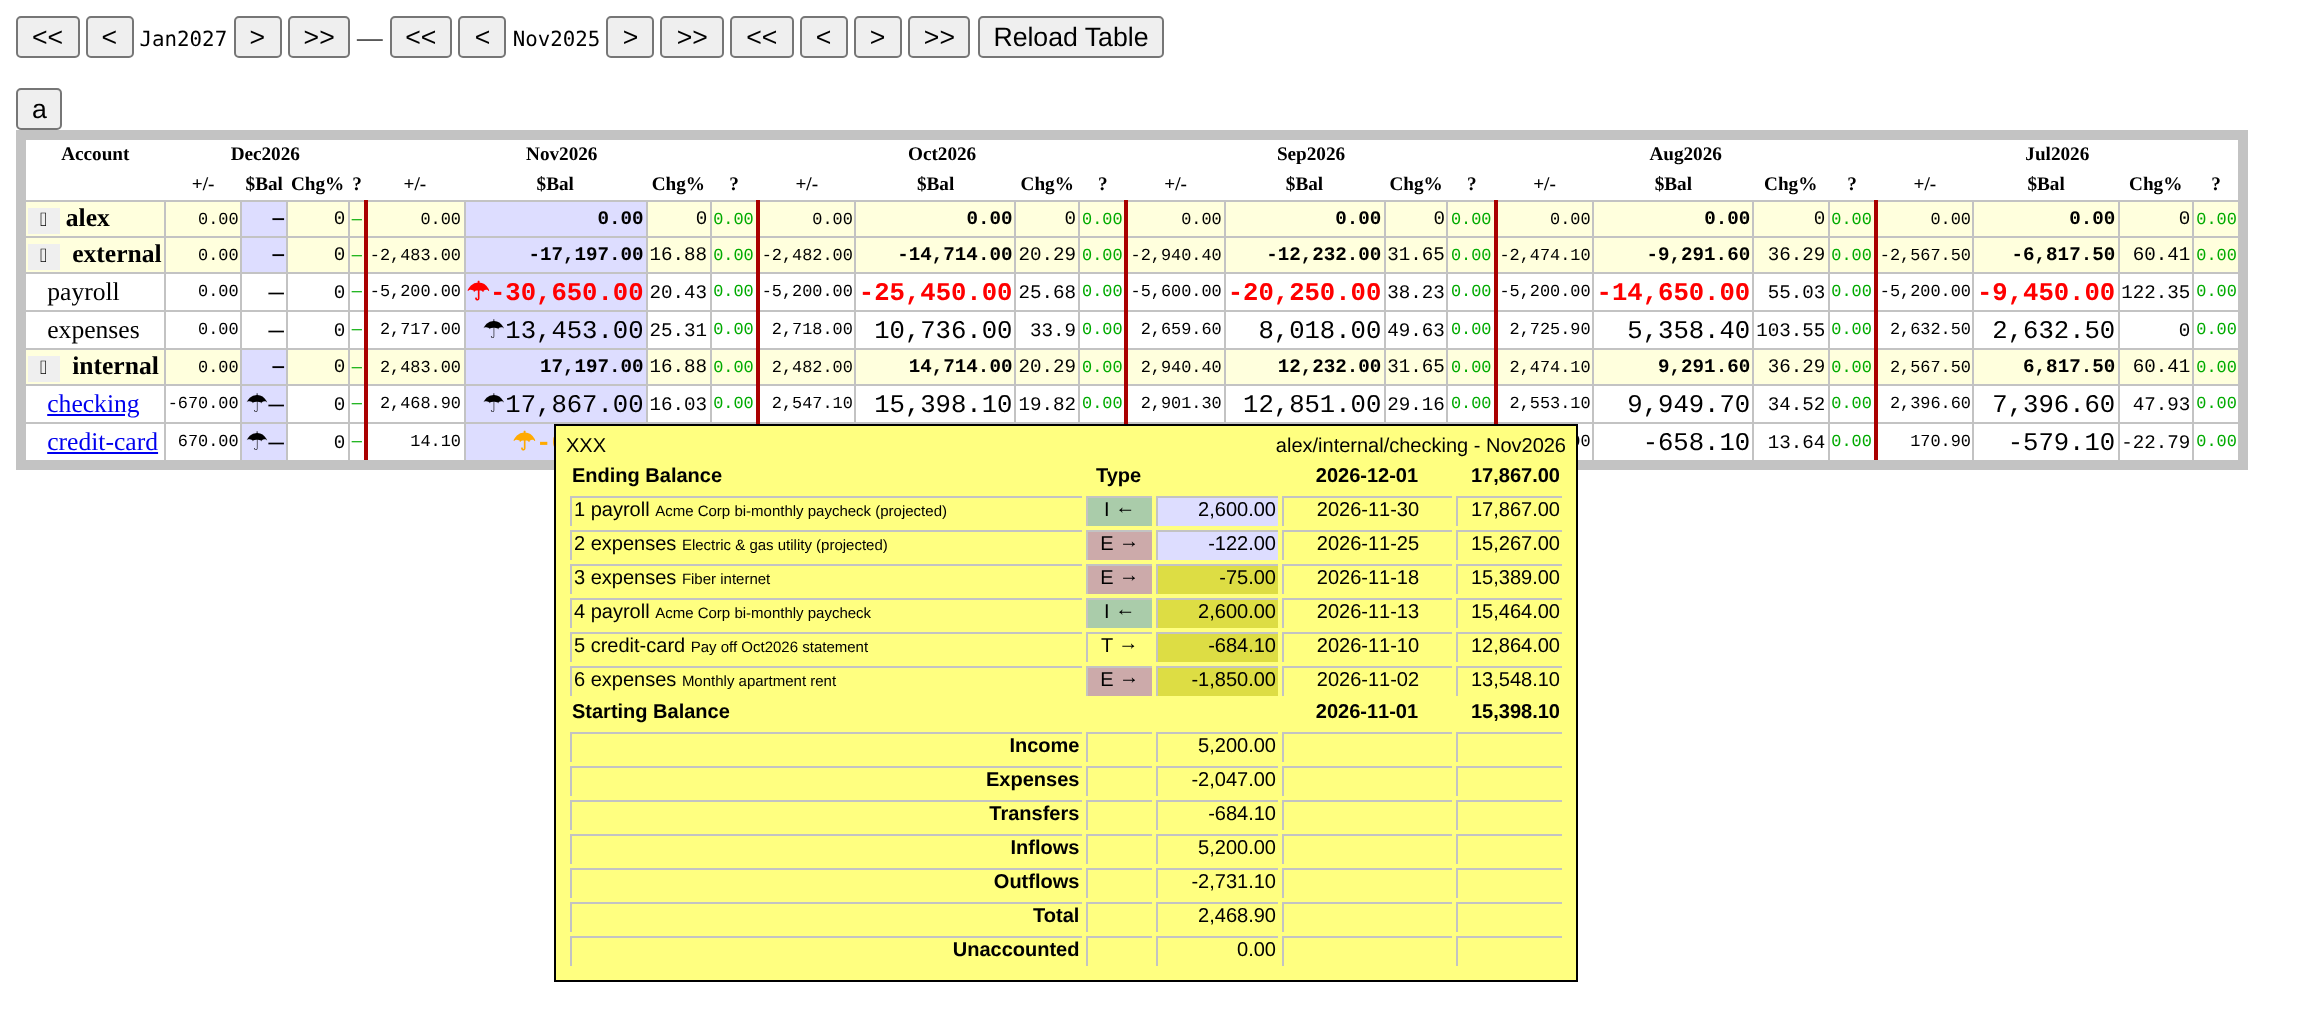
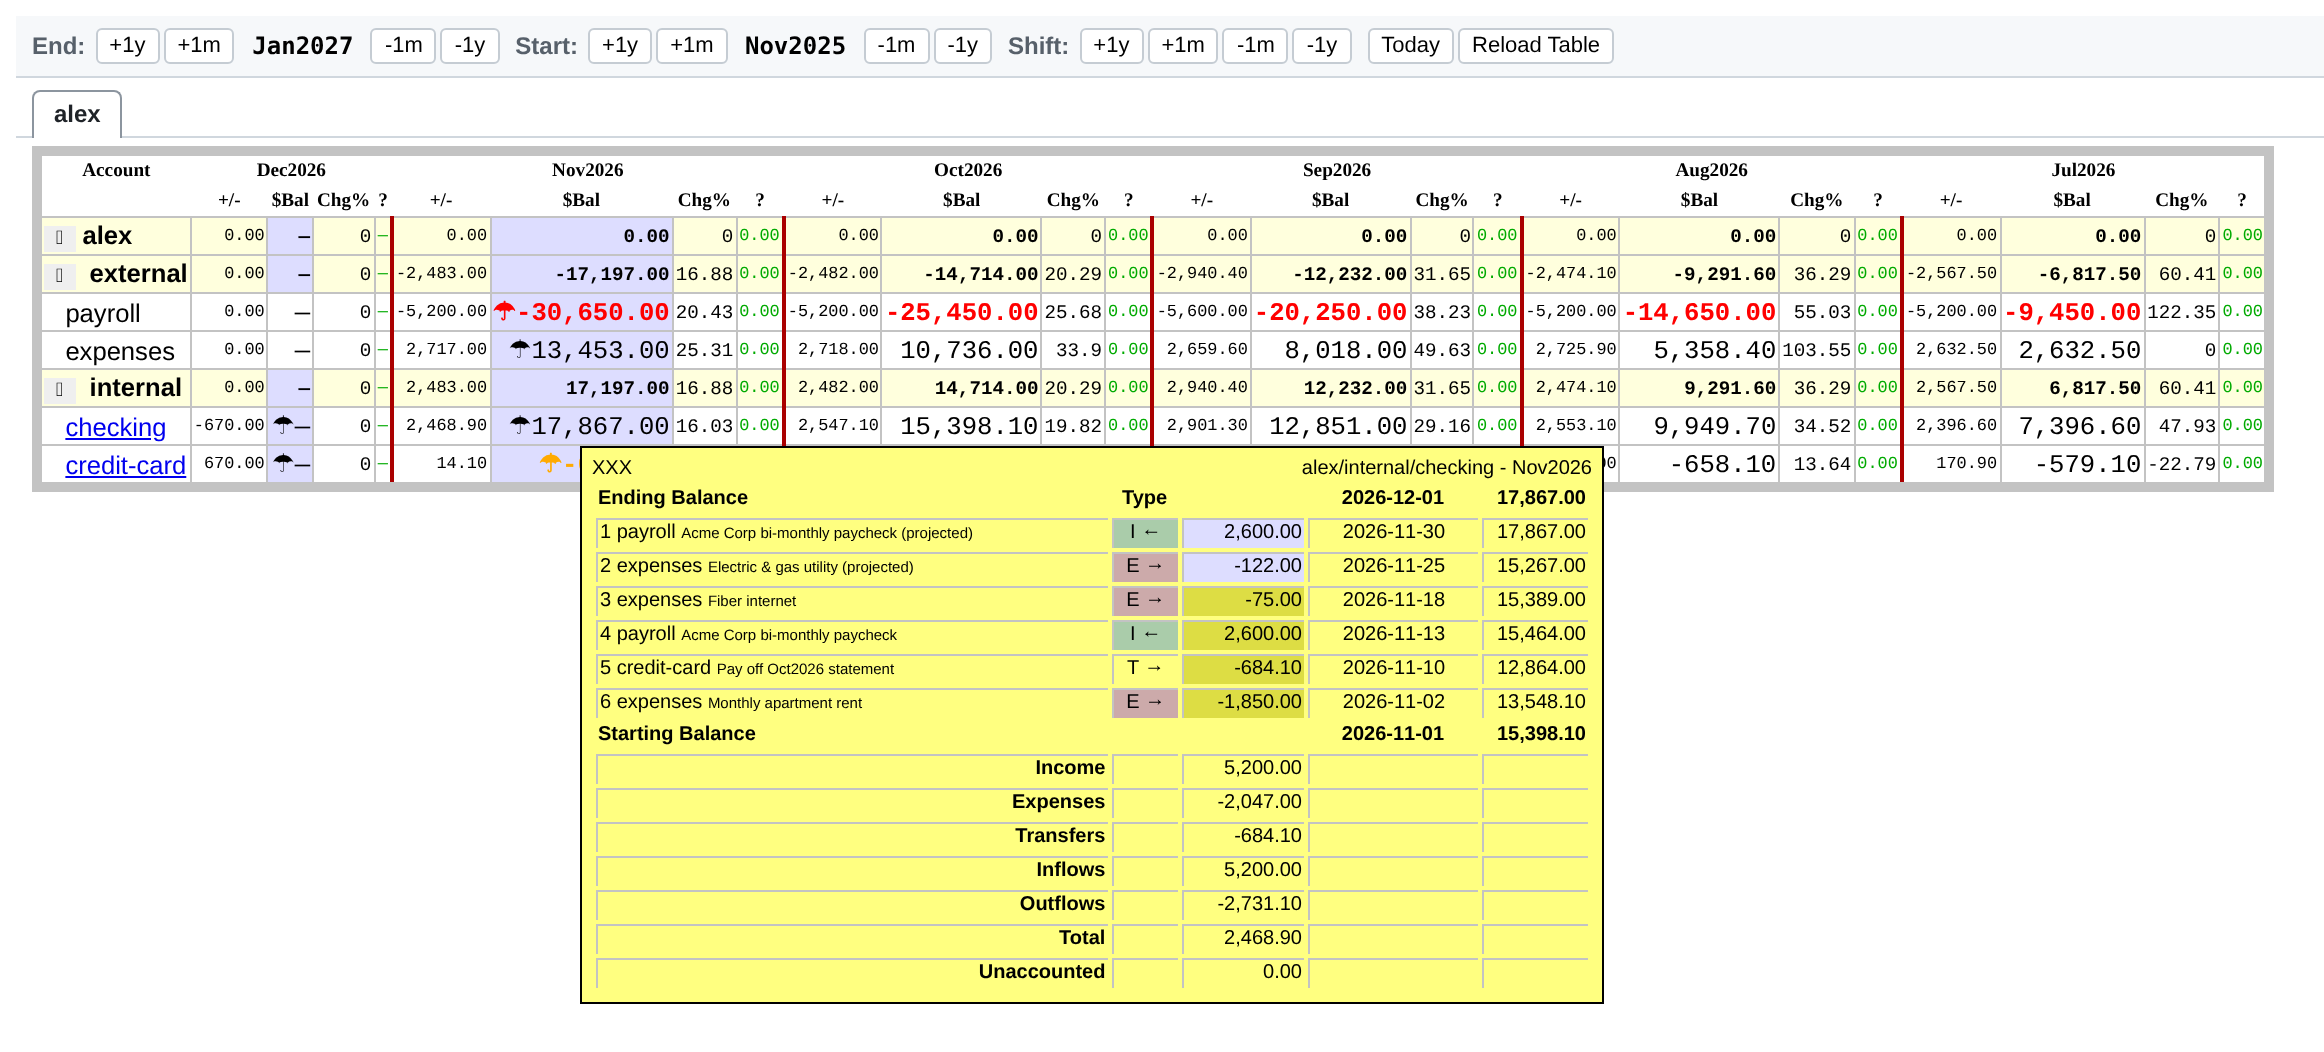
Cleanup 4.1 Clearer Date Toolbar & Owner Tabs
Changes

  • **client/src/components/tally-app.ts**:
      • Replaced the fixed unlabeled << < > >> toolbar with a sticky flex <header class="toolbar"> that does not overlap table
      rows, organized into labeled End, Start, and Shift control groups (+1y, +1m, -1m, -1y) with descriptive title tooltips.
      • Added a Today button (resetRange()) to jump back to the default window around the current month.
      • Replaced single-letter owner buttons (${owner[0]}) with full owner names inside <nav class="owner-tabs" role="tablist">
      with active tab highlighting (active class + aria-selected), and only render the error banner when errorMessage is non-
      empty.
  • **client/src/components/tally-app.test.ts**:
      • Updated toolbar and owner tab tests to verify labeled buttons, tooltips, the Today reset button, full owner names, and
      active tab / aria-selected state.
  * **Regenerated and visually verified both screenshots in sample-data/ against the updated UI**:
      • sample-data/screenshot.png — shows the new sticky header toolbar (End, Start, Shift controls with +1y/+1m/-1m/-1y, Today,
      Reload Table), the full-name active alex owner tab, and the 5-month ledger table.
      • sample-data/screenshot-statement.png — shows the updated UI with the alex/internal/checking - Nov2026 monthly statement
      popup open.

  Verification

  • pnpm typecheck, pnpm lint, pnpm build, and pnpm test all passed (11/11 test files, 86/86 tests in 2.7s, 98.37% overall
[…]

Changed region(s): [[0.0, 0.0, 0.9887, 0.9631]]

diff --git a/client/src/components/tally-app.ts b/client/src/components/tally-app.ts
@@ -37,8 +37,94 @@ type ActivePopupRequest =
 @customElement('tally-app')
 export class TallyApp extends LitElement {
   static override styles = css`
+    :host {
+      display: block;
+      font-family: Arial, Helvetica, sans-serif;
+    }
+    .toolbar {
+      position: sticky;
+      top: 0;
+      z-index: 20;
+      display: flex;
+      flex-wrap: wrap;
+      align-items: center;
+      gap: 8px;
+      padding: 6px 8px;
+      background-color: #f6f8fa;
+      border-bottom: 1px solid #d0d7de;
+      font-size: 12px;
+    }
+    .control-group {
+      display: inline-flex;
+      align-items: center;
+      gap: 2px;
+    }
+    .group-label {
+      color: #57606a;
+      font-weight: 600;
+      margin-right: 3px;
+    }
+    .month-label {
+      font-family: monospace;
+      font-weight: 700;
+      padding: 0 4px;
+      min-width: 56px;
+      text-align: center;
+    }
+    .toolbar button {
+      padding: 2px 6px;
+      font-size: 11px;
+      border: 1px solid #c5ccd3;
+      border-radius: 3px;
+      background-color: #fff;
+      cursor: pointer;
+    }
+    .toolbar button:hover {
+      background-color: #eaeef2;
+    }
+    .owner-tabs {
+      display: flex;
+      flex-wrap: wrap;
+      gap: 4px;
+      padding: 6px 8px 0;
+      border-bottom: 1px solid #d0d7de;
+      background-color: #fff;
+    }
+    .owner-tab {
+      padding: 4px 10px;
+      font-size: 12px;
+      border: 1px solid #d0d7de;
+      border-bottom: none;
+      border-radius: 4px 4px 0 0;
+      background-color: #f6f8fa;
+      color: #57606a;
+      cursor: pointer;
+    }
+    .owner-tab:hover {
+      background-color: #eaeef2;
+    }
+    .owner-tab.active {
+      background-color: #fff;
+      color: #1f2328;
+      font-weight: 700;
+      border-color: #8c959f;
+      margin-bottom: -1px;
+      padding-bottom: 5px;
+    }
+    .error-banner {
+      padding: 6px 8px;
+      color: #b42318;
+      background-color: #fef3f2;
+      border-bottom: 1px solid #fecdca;
+      font-size: 14px;
+    }
+    .error-banner pre {
+      margin: 0;
+      white-space: pre-wrap;
+    }
     .toolTip {
       position: absolute;
+      z-index: 30;
       padding: 5px;
       border: 1px solid #000;
       background-color: #ffff80;
@@ -49,6 +135,7 @@ export class TallyApp extends LitElement {
     }
     .tabcontent {
       border-top: none;
+      padding: 4px 8px 8px;
     }
   `;
 
@@ -92,34 +179,53 @@ export class TallyApp extends LitElement {
     });
 
     return html`
-      <div style="position: fixed;font-size: 80%;">
-        <button @click="${() => this.updateRange(0, 12)}">&lt;&lt;</button>
-        <button @click="${() => this.updateRange(0, 1)}">&lt;</button>
-        <span style="font-family: monospace;">${this.endMonth}</span>
-        <button @click="${() => this.updateRange(0, -1)}">&gt;</button>
-        <button @click="${() => this.updateRange(0, -12)}">&gt;&gt;</button>
-        &mdash;
-        <button @click="${() => this.updateRange(12, 0)}">&lt;&lt;</button>
-        <button @click="${() => this.updateRange(1, 0)}">&lt;</button>
-        <span style="font-family: monospace;">${this.startMonth}</span>
-        <button @click="${() => this.updateRange(-1, 0)}">&gt;</button>
-        <button @click="${() => this.updateRange(-12, 0)}">&gt;&gt;</button>
-
-        <button @click="${() => this.updateRange(12, 12)}">&lt;&lt;</button>
-        <button @click="${() => this.updateRange(1, 1)}">&lt;</button>
-        <button @click="${() => this.updateRange(-1, -1)}">&gt;</button>
-        <button @click="${() => this.updateRange(-12, -12)}">&gt;&gt;</button>
-        <button @click="${this.reloadTable}">Reload Table</button>
-      </div>
-      <div style="padding-top: 20px; color: red; font-size: 16px">
-        <pre>${this.errorMessage}</pre>
-      </div>
+      <header class="toolbar">
+        <span class="control-group" data-group="end">
+          <span class="group-label">End:</span>
+          <button title="Move end month forward 1 year" @click="${() => this.updateRange(0, 12)}">+1y</button>
+          <button title="Move end month forward 1 month" @click="${() => this.updateRange(0, 1)}">+1m</button>
+          <span class="month-label">${this.endMonth}</span>
+          <button title="Move end month back 1 month" @click="${() => this.updateRange(0, -1)}">-1m</button>
+          <button title="Move end month back 1 year" @click="${() => this.updateRange(0, -12)}">-1y</button>
+        </span>
+        <span class="control-group" data-group="start">
+          <span class="group-label">Start:</span>
+          <button title="Move start month forward 1 year" @click="${() => this.updateRange(12, 0)}">+1y</button>
+          <button title="Move start month forward 1 month" @click="${() => this.updateRange(1, 0)}">+1m</button>
+          <span class="month-label">${this.startMonth}</span>
+          <button title="Move start month back 1 month" @click="${() => this.updateRange(-1, 0)}">-1m</button>
+          <button title="Move start month back 1 year" @click="${() => this.updateRange(-12, 0)}">-1y</button>
+        </span>
+        <span class="control-group" data-group="shift">
+          <span class="group-label">Shift:</span>
+          <button title="Shift window forward 1 year" @click="${() => this.updateRange(12, 12)}">+1y</button>
+          <button title="Shift window forward 1 month" @click="${() => this.updateRange(1, 1)}">+1m</button>
+          <button title="Shift window back 1 month" @click="${() => this.updateRange(-1, -1)}">-1m</button>
+          <button title="Shift window back 1 year" @click="${() => this.updateRange(-12, -12)}">-1y</button>
+        </span>
+        <span class="control-group" data-group="actions">
+          <button title="Reset range to default window around today" @click="${this.resetRange}">Today</button>
+          <button title="Reload table data from server" @click="${this.reloadTable}">Reload Table</button>
+        </span>
+      </header>
+      ${this.errorMessage
+        ? html`<div class="error-banner"><pre>${this.errorMessage}</pre></div>`
+        : nothing}
       <div class="toolTip" style=${styleMap(popupStyle)}>${this.tooltipFragment()}</div>
-      <div>
-        ${this.owners.map(
-          (owner) => html`<button @click=${() => this.tabClick(owner)}>${owner[0]}</button>`
-        )}
-      </div>
+      ${this.owners.length > 0
+        ? html`<nav class="owner-tabs" role="tablist">
+            ${this.owners.map(
+              (owner) => html`<button
+                role="tab"
+                class="owner-tab ${this.currentOwner === owner ? 'active' : ''}"
+                aria-selected="${this.currentOwner === owner ? 'true' : 'false'}"
+                @click=${() => this.tabClick(owner)}
+              >
+                ${owner}
+              </button>`
+            )}
+          </nav>`
+        : nothing}
       ${Object.entries(this.rows).map(([owner, rows]) => {
         return html`<div class="tabcontent" style=${styleMap(tabStyle(owner))}>
           <summary-table
@@ -137,6 +243,13 @@ export class TallyApp extends LitElement {
   updateRange(startDelta: number, endDelta: number) {
     this.startMonth = this.startMonth.next(startDelta);
     this.endMonth = this.endMonth.next(endDelta);
+    this.reloadTable();
+  }
+
+  resetRange() {
+    const today = Month.fromDate(new Date());
+    this.startMonth = today.previous(12);
+    this.endMonth = today.next(2);
     this.reloadTable();
   }
 

diff --git a/client/src/components/tally-app.test.ts b/client/src/components/tally-app.test.ts
@@ -479,17 +479,20 @@ describe('TallyApp popup refresh on reload', () => {
     el.backendClient.loadStatement = origLoadStatement;
   });
 
-  it('updates month range via toolbar buttons and reloads table', async () => {
-    const toolbarDiv = el.shadowRoot!.querySelector('div')!;
-    const buttons = Array.from(toolbarDiv.querySelectorAll('button'));
-    // 12 navigation buttons + Reload Table
-    expect(buttons).to.have.lengthOf(13);
+  it('updates month range via toolbar buttons and resets via Today button', async () => {
+    const toolbar = el.shadowRoot!.querySelector('header.toolbar')!;
+    const buttons = Array.from(toolbar.querySelectorAll('button'));
+    // 12 navigation buttons + Today + Reload Table
+    expect(buttons).to.have.lengthOf(14);
+    expect(buttons[0]!.textContent?.trim()).to.equal('+1y');
+    expect(buttons[0]!.getAttribute('title')).to.include('end month');
+    expect(buttons[12]!.textContent?.trim()).to.equal('Today');
 
     const initialCall = loadTableCalls[0]!;
     const initialStart = Month.fromString(initialCall[1]);
     const initialEnd = Month.fromString(initialCall[2]);
 
-    // Click all 12 navigation buttons: +12/-12/+1/-1 on end, start, and both (net delta 0)
+    // Click all 12 navigation buttons: +12/+1/-1/-12 on end, start, and shift (net delta 0)
     const expectedDeltas: Array<[number, number]> = [
       [0, 12],
       [0, 1],
@@ -516,9 +519,20 @@ describe('TallyApp popup refresh on reload', () => {
       expect(lastCall[1]).to.equal(curStart.toString());
       expect(lastCall[2]).to.equal(curEnd.toString());
     }
+
+    // Shift away, then click Today to reset back to default window
+    buttons[0]!.click();
+    await flush(el);
+    expect(loadTableCalls[loadTableCalls.length - 1]![2]).to.not.equal(initialEnd.toString());
+
+    buttons[12]!.click();
+    await flush(el);
+    const resetCall = loadTableCalls[loadTableCalls.length - 1]!;
+    expect(resetCall[1]).to.equal(initialStart.toString());
+    expect(resetCall[2]).to.equal(initialEnd.toString());
   });
 
-  it('switches owner tabs, closes popup on owner change, and keeps popup on same-owner click', async () => {
+  it('switches owner tabs with full names and active state, closing popup only on owner change', async () => {
     getSummaryTable().dispatchEvent(
       new CustomEvent<CellClickEventData>('cellclick', {
         detail: {
@@ -534,19 +548,27 @@ describe('TallyApp popup refresh on reload', () => {
     await flush(el);
     expect(el.shadowRoot!.querySelector('balance-tooltip')).to.not.equal(null);
 
-    const divs = el.shadowRoot!.querySelectorAll('div');
-    const ownerButtons = Array.from(divs[3]!.querySelectorAll('button'));
+    const ownerButtons = Array.from(
+      el.shadowRoot!.querySelectorAll<HTMLButtonElement>('nav.owner-tabs button')
+    );
     expect(ownerButtons).to.have.lengthOf(2);
+    expect(ownerButtons.map((b) => b.textContent?.trim())).to.deep.equal(['owner1', 'owner2']);
+    expect(ownerButtons[0]!.classList.contains('active')).to.equal(true);
+    expect(ownerButtons[0]!.getAttribute('aria-selected')).to.equal('true');
+    expect(ownerButtons[1]!.classList.contains('active')).to.equal(false);
 
     // Clicking the already-active owner keeps the popup open
     ownerButtons[0]!.click();
     await flush(el);
     expect(el.shadowRoot!.querySelector('balance-tooltip')).to.not.equal(null);
 
-    // Clicking owner2 closes the popup and reloads table for owner2
+    // Clicking owner2 closes the popup, updates active tab, and reloads table for owner2
     ownerButtons[1]!.click();
     await flush(el);
     expect(el.shadowRoot!.querySelector('balance-tooltip')).to.equal(null);
+    expect(ownerButtons[1]!.classList.contains('active')).to.equal(true);
+    expect(ownerButtons[1]!.getAttribute('aria-selected')).to.equal('true');
+    expect(ownerButtons[0]!.classList.contains('active')).to.equal(false);
     const lastCall = loadTableCalls[loadTableCalls.length - 1]!;
     expect(lastCall[0]).to.equal('owner2');
   });

diff --git a/docs/implementation-plan.md b/docs/implementation-plan.md
@@ -78,11 +78,10 @@ Low-risk cleanup that reduces noise, removes dead code, and establishes automate
 
 ## Phase 4: Usability & Day-to-Day UX Polish
 
-### 4.1 Clearer Date Toolbar & Owner Tabs
+### 4.1 Clearer Date Toolbar & Owner Tabs — Done
 - **File**: [`client/src/components/tally-app.ts`](../client/src/components/tally-app.ts)
-- **Action**:
-  - Replace the repeated unlabeled `<< < > >>` toolbar buttons with clearly labeled controls (`-1y`, `-1m`, `+1m`, `+1y`, `Today`) and tooltips, laid out in a clean header bar that does not overlap table rows.
-  - Render full owner names on owner tabs (instead of `${owner[0]}`, which collides when owners share an initial) with a clear active-tab style.
+- [x] Replaced the fixed unlabeled `<< < > >>` toolbar with a sticky flex `<header class="toolbar">` featuring labeled End/Start/Shift control groups (`+1y`, `+1m`, `-1m`, `-1y`), descriptive `title` tooltips, and a `Today` reset button (`resetRange()`).
+- [x] Updated owner tabs to render full owner names in a `<nav class="owner-tabs" role="tablist">` with active tab styling and `aria-selected`, and conditioned the error banner so it takes no space when empty.
 
 ### 4.2 Sticky Table Headers & Account Column
 - **File**: [`client/src/components/summary-table.ts`](../client/src/components/summary-table.ts)
